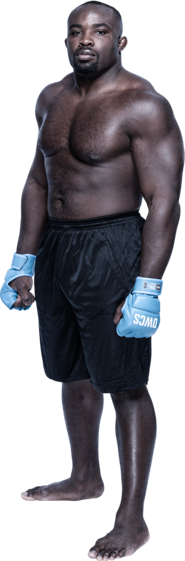
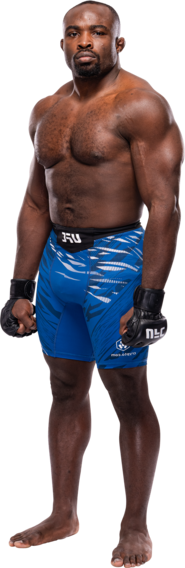
UFC 325: Volkanovski vs. Lopes 2
UFC 325: Volkanovski vs. Lopes 2
Database Update

diff --git a/pages/octagoniq.html b/pages/octagoniq.html
@@ -963,35 +963,35 @@
 
     <div id="myModal" class="modal">
         <div class="modal-content">
+            <p>Select a Bout (UFC 325: Volkanovski vs. Lopes 2):</p>
+            <button id="fight1">Alexander Volkanovski vs. Diego Lopes</button>
+            <button id="fight2">Dan Hooker vs. Benoit Saint Denis</button>
+            <button id="fight3">Rafael Fiziev vs. Mauricio Ruffy</button>
+            <button id="fight4">Tai Tuivasa vs. Tallison Teixeira</button>
+            <button id="fight5">Quillan Salkilld vs. Jamie Mullarkey</button>
+            <button id="fight6">Junior Tafa vs. Billy Elekana</button>
+            <button id="fight7">Cam Rowston vs. Cody Brundage</button>
+            <button id="fight8">Jacob Malkoun vs. Torrez Finney</button>
+            <button id="fight9">Jonathan Micallef vs. Oban Elliott</button>
+            <button id="fight10">Kaan Ofli vs. Yizha</button>
+            <button id="fight11">Sangwook Kim vs. Dom Mar Fan</button>
+            <button id="fight12">Keiichiro Nakamura vs. Sebastian Szalay</button>
+            <button id="fight13">Sulangrangbo vs. Lawrence Lui</button>
+            <button id="fight14">Aaron Tau vs. Namsrai Batbayar</button>
             <p>Select a Bout (UFC 324: Gaethje vs. Pimblett):</p>
-            <button id="fight1">Justin Gaethje vs. Paddy Pimblett</button>
-            <button id="fight2">Kayla Harrison vs. Amanda Nunes</button>
-            <button id="fight3">Sean O'Malley vs. Song Yadong</button>
-            <button id="fight4">Waldo Cortes Acosta vs. Derrick Lewis</button>
-            <button id="fight5">Arnold Allen vs. Jean Silva</button>
-            <button id="fight6">Natalia Silva vs. Rose Namajunas</button>
-            <button id="fight7">Umar Nurmagomedov vs. Deiveson Figueiredo</button>
-            <button id="fight8">Ateba Gautier vs. Andrey Pulyaev</button>
-            <button id="fight9">Michael Johnson vs. Alexander Hernandez</button>
-            <button id="fight10">Nikita Krylov vs. Modestas Bukauskas</button>
-            <button id="fight11">Alex Perez vs. Charles Johnson</button>
-            <button id="fight12">Josh Hokit vs. Denzel Freeman</button>
-            <button id="fight13">Ricky Turcios vs. Cameron Smotherman</button>
-            <p>Select a Bout (UFC 323: Dvalishvili vs. Yan 2):</p>
-            <button id="fight14">Merab Dvalishvili vs. Petr Yan</button>
-            <button id="fight15">Alexandre Pantoja vs. Joshua Van</button>
-            <button id="fight16">Brandon Moreno vs. Tatsuro Taira</button>
-            <button id="fight17">Henry Cejudo vs. Payton Talbott</button>
-            <button id="fight18">Jan Blachowicz vs. Bogdan Guskov</button>
-            <button id="fight19">Grant Dawson vs. Manuel Torres</button>
-            <button id="fight20">Terrance McKinney vs. Chris Duncan</button>
-            <button id="fight21">Maycee Barber vs. Karine Silva</button>
-            <button id="fight22">Nazim Sadykhov vs. Fares Ziam</button>
-            <button id="fight23">Marvin Vettori vs. Brunno Ferreira</button>
-            <button id="fight24">Edson Barboza vs. Jalin Turner</button>
-            <button id="fight25">Iwo Baraniewski vs. Ibo Aslan</button>
-            <button id="fight26">Mansur Abdul-Malik vs. Antonio Trocoli</button>
-            <button id="fight27">Muhammad Naimov vs. Mairon Santos</button>
+            <button id="fight15">Justin Gaethje vs. Paddy Pimblett</button>
+            <button id="fight16">Kayla Harrison vs. Amanda Nunes</button>
+            <button id="fight17">Sean O'Malley vs. Song Yadong</button>
+            <button id="fight18">Waldo Cortes Acosta vs. Derrick Lewis</button>
+            <button id="fight19">Arnold Allen vs. Jean Silva</button>
+            <button id="fight20">Natalia Silva vs. Rose Namajunas</button>
+            <button id="fight21">Umar Nurmagomedov vs. Deiveson Figueiredo</button>
+            <button id="fight22">Ateba Gautier vs. Andrey Pulyaev</button>
+            <button id="fight23">Michael Johnson vs. Alexander Hernandez</button>
+            <button id="fight24">Nikita Krylov vs. Modestas Bukauskas</button>
+            <button id="fight25">Alex Perez vs. Charles Johnson</button>
+            <button id="fight26">Josh Hokit vs. Denzel Freeman</button>
+            <button id="fight27">Ricky Turcios vs. Cameron Smotherman</button>
             <span class="close">&times;</span>
         </div>
     </div>